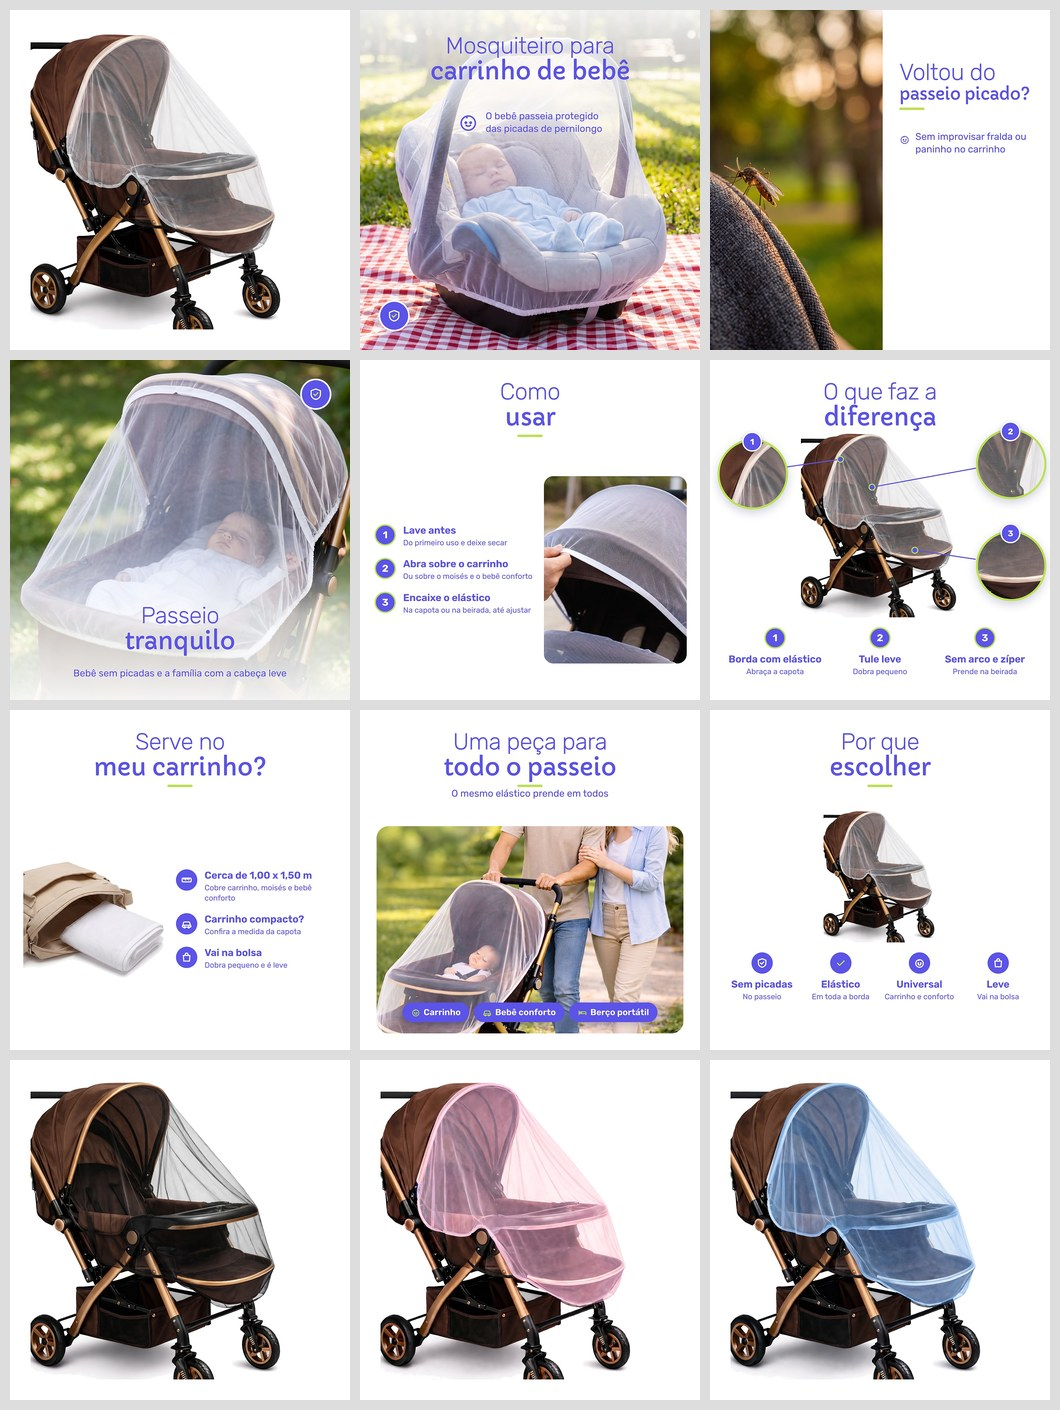
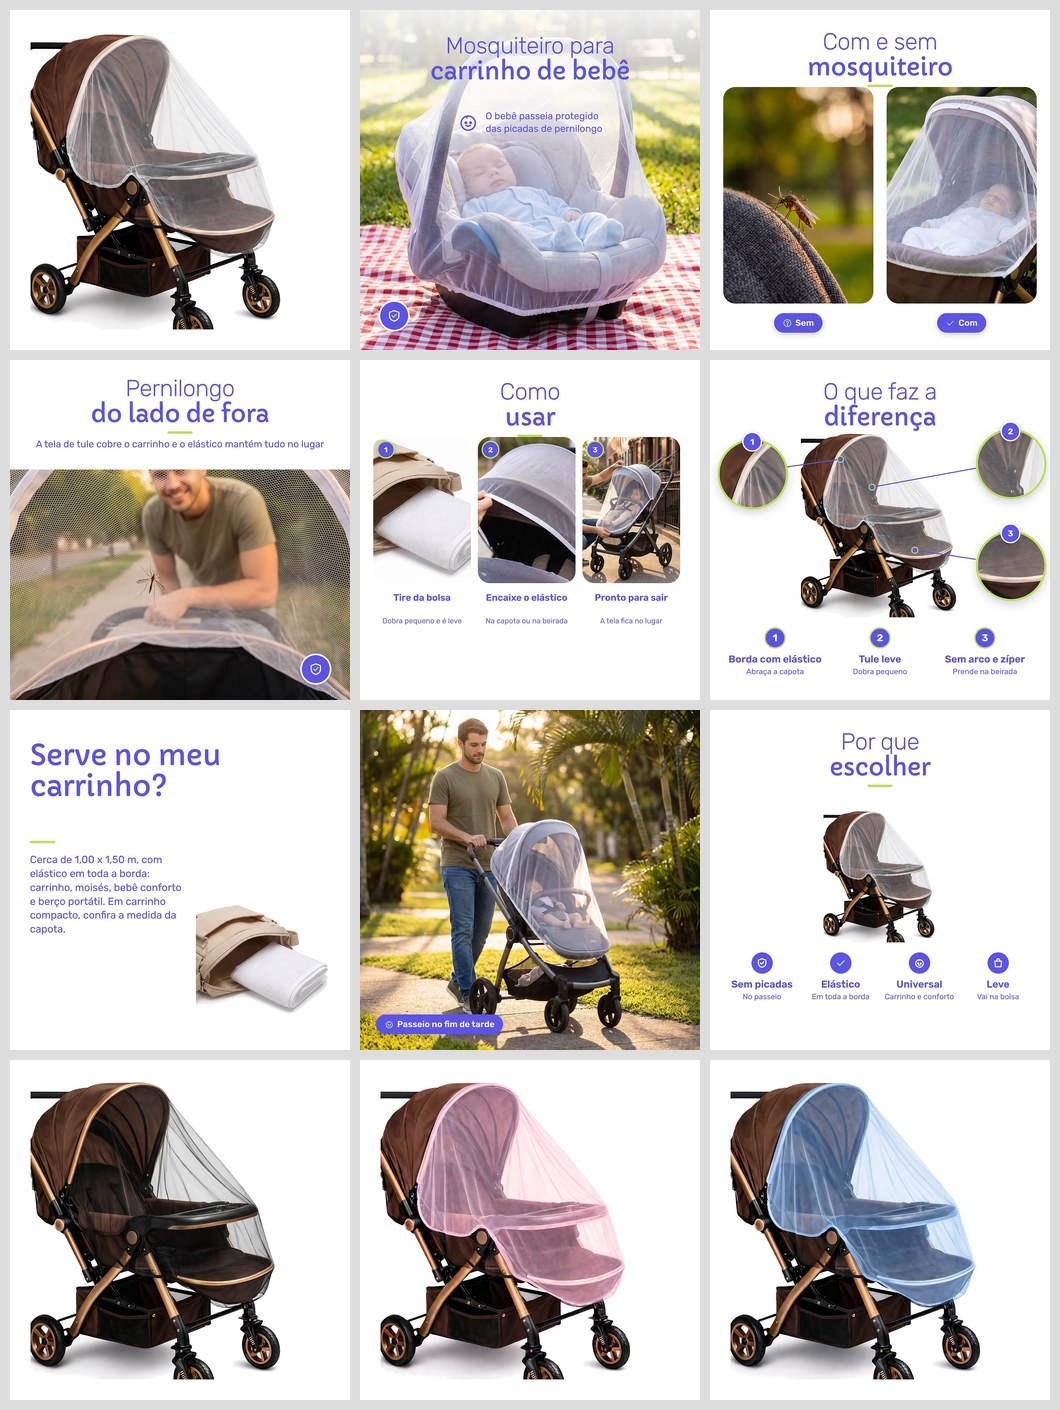
Artes mosquiteiro-carrinho 20/10

diff --git a/_kit/render.py b/_kit/render.py
@@ -5,6 +5,8 @@ uso: python3 render.py spec.json [--out-dir pasta] [--only 01,06]
 spec.json = lista de imagens. Campos por imagem:
   out      nome do arquivo final (ex.: "trava-porta-bebe-macaneta-alavanca-01-capa.jpg")
   layout   "capa" | "hero" | "overlay" | "card" | "split" | "lista" | "passos" | "detalhe"
+           v3: "comparativo" (img+img2, labels) | "depoimento" (quote) | "numero" (num, legend) | "sequencia" (steps[{img,t,d}])
+               | "faixa" (band top|bottom) | "mosaico" (img + imgs[{img,label}]) | "pergunta" (q, a) | "cheia" (chips)
   img      caminho da foto (relativo ao spec.json). Se existir a mesma foto em `_fontes/pro-2k/`, ela é usada (2048 px).
   crop     [x0, y0, x1, y1] opcional: parte boa da foto (em px da foto de 1024)
   t1, t2   título: t1 = linha leve (Rubik 300), t2 = linha forte (Capriola)
@@ -337,6 +339,95 @@ def build(sp, work, base):
         legend_top = sp.get("legend_top", 790)
         body = (title_block(sp, 58) + pb + zooms_html(sp, im, work, geom) +
                 f'<div style="position:absolute;left:52px;top:{legend_top}px;width:920px;display:flex;gap:28px">{items_html(sp, column=True)}</div>')
+    # ---------- layouts v3 (criativo-zelokids, 20/10/2026): variedade de arranjo por produto ----------
+    elif lay == "comparativo":  # duas fotos lado a lado em cartões, chips "Sem" / "Com"
+        top = 232 if two else 160
+        ch = S - top - 60 - 80
+        im2 = load(source(base, sp["img2"]), sp.get("crop2"))
+        save(fit_box(im, 452, ch), work / "img.png"); save(fit_box(im2, 452, ch), work / "img2.png")
+        labels = sp.get("labels", ["Sem", "Com"]); icons = sp.get("label_icons", ["question", "check"])
+        def chip(t, i, x):
+            return f'<div class="chips" style="bottom:52px;left:{x}px;width:452px"><span class="chip">{svg(i, 28)}{esc(t)}</span></div>'
+        body = (title_block(sp, 58) +
+                f'<div class="card" style="left:40px;top:{top}px;width:452px;height:{ch}px"><img src="img.png"></div>'
+                f'<div class="card" style="left:532px;top:{top}px;width:452px;height:{ch}px"><img src="img2.png"></div>'
+                + chip(labels[0], icons[0], 40) + chip(labels[1], icons[1], 532))
+
+    elif lay == "depoimento":  # frase real de cliente + 5 estrelas verdes; foto em cartão em cima
+        save(fit_box(im, 924, 470), work / "img.png")
+        stars = "".join(f'<svg width="34" height="34" viewBox="0 0 24 24" fill="{VERDE}" stroke="{VERDE}" stroke-width="1.5" stroke-linejoin="round">{ICONS["heartless_star"]}</svg>' for _ in range(5))
+        body = (f'<div class="card" style="left:50px;top:50px;width:924px;height:470px"><img src="img.png"></div>'
+                f'<div style="position:absolute;left:80px;top:566px;width:864px;display:flex;gap:6px;justify-content:center">{stars}</div>'
+                f'<p style="position:absolute;left:80px;top:626px;width:864px;margin:0;text-align:center;font-family:Rubik;font-weight:400;font-size:{sp.get("quote_size", 40)}px;line-height:1.3;color:{ROXO}">“{esc(sp["quote"])}”</p>'
+                f'<p class="sub" style="position:absolute;left:0;bottom:56px;width:{S}px;margin:0;text-align:center;opacity:.8">{esc(sp.get("sub", "Avaliação de quem já usa"))}</p>')
+
+    elif lay == "numero":  # um dado gigante como herói + legenda; foto do produto ao lado
+        if w: im = whiten_trim(im, tol=sp.get("white_tol", 10))
+        save(im, work / "img.png")
+        pb, _ = product_box(im, 560, 150, 404, 740, "", "0" if w else "28px")
+        body = (title_block(sp, 58, left=60, width=480, bar=True, max_w=480) +
+                f'<div style="position:absolute;left:60px;top:300px;width:480px;font-family:Capriola;font-size:{sp.get("num_size", 190)}px;line-height:1;color:{ROXO};letter-spacing:-4px;white-space:nowrap">{esc(sp["num"])}</div>'
+                f'<p style="position:absolute;left:60px;top:{300 + int(sp.get("num_size", 190) * 1.05)}px;width:480px;margin:0;font-size:34px;font-weight:600;line-height:1.25;color:{ROXO}">{esc(sp.get("legend", ""))}</p>'
+                f'<p class="sub" style="position:absolute;left:60px;top:{300 + int(sp.get("num_size", 190) * 1.05) + 100}px;width:480px;margin:0">{esc(sp.get("sub", ""))}</p>'
+                + pb)
+
+    elif lay == "sequencia":  # 3 fotos em fila, numeradas, uma linha cada
+        top = 232 if two else 160
+        ph = 440; pw = 294; gap = 21
+        cards = ""
+        for k, st in enumerate(sp["steps"][:3]):
+            imk = load(source(base, st["img"]), st.get("crop"))
+            save(fit_box(imk, pw, ph), work / f"s{k}.png")
+            x = 40 + k * (pw + gap)
+            cards += (f'<div class="card" style="left:{x}px;top:{top}px;width:{pw}px;height:{ph}px"><img src="s{k}.png"></div>'
+                      f'<span class="mk" style="left:{x + 34}px;top:{top + 34}px">{k + 1}</span>'
+                      f'<p style="position:absolute;left:{x}px;top:{top + ph + 26}px;width:{pw}px;margin:0;text-align:center;font-size:28px;font-weight:600;line-height:1.25;color:{ROXO}">{esc(st["t"])}</p>'
+                      + (f'<p style="position:absolute;left:{x}px;top:{top + ph + 100}px;width:{pw}px;margin:0;text-align:center;font-size:22px;line-height:1.3;color:{ROXO};opacity:.9">{esc(st["d"])}</p>' if st.get("d") else ""))
+        body = title_block(sp, 58) + cards
+
+    elif lay == "faixa":  # foto sangrada + faixa branca sólida (em cima ou embaixo) para o texto
+        save(fit_box(im, S, S), work / "img.png")
+        bottom = sp.get("band", "bottom") == "bottom"
+        bh = sp.get("band_h", 330)
+        y0 = S - bh if bottom else 0
+        tt = y0 + 48
+        sub = f'<p class="sub" style="position:absolute;top:{tt + (172 if two else 90) + 14}px;left:60px;width:904px;margin:0;text-align:center">{esc(sp["sub"])}</p>' if sp.get("sub") else ""
+        body = (f'<img src="img.png" style="position:absolute;inset:0;width:{S}px;height:{S}px;object-fit:cover">'
+                f'<div style="position:absolute;left:0;top:{y0}px;width:{S}px;height:{bh}px;background:#fff"></div>'
+                + title_block(sp, tt) + sub + shield_html(sp, right=56, top=(56 if bottom else S - 140)))
+
+    elif lay == "mosaico":  # 1 foto grande + 2 pequenas empilhadas, chips opcionais
+        top = 232 if two else 160
+        H = S - top - 50
+        save(fit_box(im, 560, H), work / "img.png")
+        small = ""
+        for k, st in enumerate(sp.get("imgs", [])[:2]):
+            imk = load(source(base, st["img"]), st.get("crop"))
+            hh = (H - 20) // 2
+            save(fit_box(imk, 344, hh), work / f"m{k}.png")
+            y = top + k * (hh + 20)
+            small += f'<div class="card" style="left:630px;top:{y}px;width:344px;height:{hh}px"><img src="m{k}.png"></div>'
+            if st.get("label"):
+                small += f'<div class="chips" style="bottom:{S - y - hh + 18}px;left:630px;width:344px"><span class="chip" style="font-size:22px;padding:10px 20px">{svg(st.get("icon", "check"), 24)}{esc(st["label"])}</span></div>'
+        big_chip = chips_html(sp, 68, 50, 560) if sp.get("chips") else ""
+        body = (title_block(sp, 58) +
+                f'<div class="card" style="left:50px;top:{top}px;width:560px;height:{H}px"><img src="img.png"></div>' + big_chip + small)
+
+    elif lay == "pergunta":  # pergunta grande domina; resposta curta; foto pequena no canto
+        if w: im = whiten_trim(im, tol=sp.get("white_tol", 10))
+        save(im, work / "img.png")
+        pb, _ = product_box(im, 560, 540, 404, 424, "", "0" if w else "28px")
+        q = esc(sp["q"])  # quebra de linha com \n no JSON
+        body = (f'<div style="position:absolute;left:60px;top:90px;width:904px;font-family:Capriola;font-size:{sp.get("q_size", 86)}px;line-height:1.08;letter-spacing:-1px;color:{ROXO}">{q}</div>'
+                f'<span class="bar" style="position:absolute;left:60px;top:{sp.get("bar_top", 380)}px"></span>'
+                f'<p style="position:absolute;left:60px;top:{sp.get("a_top", 430)}px;width:470px;margin:0;font-size:31px;line-height:1.35;color:{ROXO}">{esc(sp["a"])}</p>'
+                + pb + shield_html(sp, left=60, bottom=60))
+
+    elif lay == "cheia":  # só a foto, um chip pequeno no canto
+        save(fit_box(im, S, S), work / "img.png")
+        chip = f'<div class="chips" style="bottom:48px;left:0;width:{S}px;justify-content:{sp.get("chip_align", "flex-start")};padding-left:48px;padding-right:48px;box-sizing:border-box">{"".join(f"<span class=chip>{svg(i, 28) if i else ""}{esc(t)}</span>" for t, i in zip(sp.get("chips", []), sp.get("chip_icons") or [None] * 9))}</div>' if sp.get("chips") else ""
+        body = f'<img src="img.png" style="position:absolute;inset:0;width:{S}px;height:{S}px;object-fit:cover">' + chip
+
     else:
         raise SystemExit(f"layout desconhecido: {lay}")
     return page(body)

diff --git a/mosquiteiro-carrinho/briefing-criativo.md b/mosquiteiro-carrinho/briefing-criativo.md
@@ -1,0 +1,33 @@
+# Briefing criativo — Mosquiteiro para Carrinho de Bebê e Bebê Conforto (20/10/2026, modo revisão)
+
+## Identidade
+**"O passeio que não precisa voltar mais cedo."** O produto é a liberdade de ficar na rua na hora que o pernilongo chega.
+- Gancho: praticidade da rotina (sem drama; o pernilongo aparece, mas sempre do lado de fora).
+- Protagonista/cenário: **pai**, **fim de tarde** (hora do pernilongo), **calçada do bairro / praça**, luz dourada. As galerias de hoje usaram mãe de manhã em casa (suporte, berço, aspirador), casal no parque e avó no quintal; este fica com o pai no entardecer.
+- Ponto de vista novo: **de dentro do carrinho**, olhando pelo tule — o pernilongo pousado do lado de fora e o rosto do pai desfocado atrás.
+
+## Galeria anterior (manhã)
+capa · hero · split · overlay · lista · detalhe · lista · card · passos — 2 `lista`, narrativa boa mas com o mesmo esqueleto dos outros 6 produtos do dia.
+
+## Decisão por imagem
+| # | Decisão | Layout | Cena / texto | Fonte |
+|---|---|---|---|---|
+| 01 | manter | capa | branco | — |
+| 02 | manter | hero | bebê conforto no piquenique; "Mosquiteiro para carrinho de bebê" | página |
+| 03 | **trocar** | `comparativo` | esquerda: pernilongo na capota (foto já gerada) · direita: bebê dormindo sob a tela (foto da 04 antiga). Título "Com e sem / mosquiteiro", chips Sem / Com | página (protege das picadas) |
+| 04 | **trocar** | `faixa` (band top) | **nova cena**: vista de dentro do carrinho pelo tule branco, pernilongo pousado do lado de fora da malha, pai sorrindo desfocado atrás. Título "Pernilongo / do lado de fora", apoio "A tela de tule cobre o carrinho e o elástico mantém tudo no lugar" | página |
+| 05 | **trocar** | `sequencia` | 1 Tire da bolsa (foto dobrado) · 2 Encaixe o elástico (foto mão) · 3 Pronto para sair (**nova cena**: pai ajustando a tela no carrinho na calçada ao entardecer). Título "Como / usar" | página (como usar) |
+| 06 | manter | detalhe | lupas | — |
+| 07 | **trocar** | `pergunta` | "Serve no meu / carrinho?" · resposta: cerca de 1,00 x 1,50 m, elástico na borda; carrinho, moisés, bebê conforto e berço portátil; carrinho compacto: confira a capota · foto do dobrado na bolsa | página (FAQ) |
+| 08 | **trocar** | `cheia` | **nova cena**: pai empurrando o carrinho coberto na calçada arborizada do bairro, luz dourada; chip "Passeio no fim de tarde" | — (respiro; só legenda) |
+| 09 | manter | passos | resumo | página |
+| 10–12 | manter | capa | cores preto/rosa/azul | — |
+
+Layouts na galeria: capa · hero · comparativo · faixa · sequencia · detalhe · pergunta · cheia · passos = 9 diferentes, nenhum repetido.
+
+## Orçamento
+3 gerações pro 2K novas (vista de dentro, pai ajustando, pai passeando) ≈ R$ 3. As trocas 03 e 07 reaproveitam fotos já geradas.
+
+## Para o diretor de arte
+- Refazer com `--only 03,04,05,07,08`.
+- Apagar no admin depois: versão anterior das 9 + 3 cores da manhã (10–21 na galeria nova) e as 9 fotos antigas da loja (22–30).
